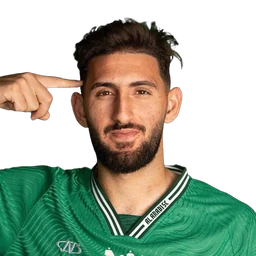
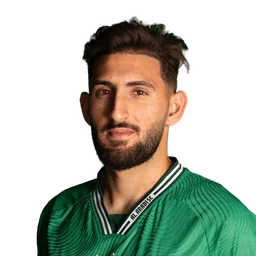
العربي: صور 13 لاعباً من جلسة التصوير الرسمية (Drive) — الموقع والفانتسي، مطابقة بالرقم مع الكشف؛ صور ?v=9، sw -77، fantasy 204

diff --git a/fantasy/index.html b/fantasy/index.html
@@ -12,7 +12,7 @@
 <link rel="preconnect" href="https://fonts.googleapis.com">
 <link rel="preconnect" href="https://fonts.gstatic.com" crossorigin>
 <link href="https://fonts.googleapis.com/css2?family=Vazirmatn:wght@300;400;500;600;700;800&display=swap" rel="stylesheet">
-<link rel="stylesheet" href="css/style.css?v=203">
+<link rel="stylesheet" href="css/style.css?v=204">
 <script src="https://cdnjs.cloudflare.com/ajax/libs/firebase/10.12.2/firebase-app-compat.min.js"></script>
 <script src="https://cdnjs.cloudflare.com/ajax/libs/firebase/10.12.2/firebase-auth-compat.min.js"></script>
 <script src="https://cdnjs.cloudflare.com/ajax/libs/firebase/10.12.2/firebase-firestore-compat.min.js"></script>
@@ -20,13 +20,13 @@
 </head>
 <body>
   <div id="splash">
-    <div class="splash-card"><img class="splash-logo" src="assets/logo-light.png?v=203" alt="Kuwait Fantasy League"></div>
+    <div class="splash-card"><img class="splash-logo" src="assets/logo-light.png?v=204" alt="Kuwait Fantasy League"></div>
   </div>
 
   <header id="topbar" style="display:none">
     <div id="brand" onclick="APP.go('dashboard')">
-      <img class="brand-lockup lk-dark" src="assets/logo-dark.png?v=203" alt="Kuwait Fantasy League">
-      <img class="brand-lockup lk-light" src="assets/logo-light.png?v=203" alt="Kuwait Fantasy League">
+      <img class="brand-lockup lk-dark" src="assets/logo-dark.png?v=204" alt="Kuwait Fantasy League">
+      <img class="brand-lockup lk-light" src="assets/logo-light.png?v=204" alt="Kuwait Fantasy League">
     </div>
     <a id="toSite" href="/" title="العودة للموقع">
       <svg viewBox="0 0 24 24" width="16" height="16" fill="none" stroke="currentColor" stroke-width="2.2" stroke-linecap="round" stroke-linejoin="round" aria-hidden="true"><path d="M9 6l6 6-6 6"/></svg>
@@ -41,28 +41,28 @@
   <nav id="bottomnav"></nav>
   <div id="toasts"></div>
 
-  <script src="js/cloud.js?v=203"></script>
-  <script src="js/data.js?v=203"></script>
-  <script src="js/engine.js?v=203"></script>
-  <script src="js/ui.js?v=203"></script>
-  <script src="js/photos.js?v=203"></script>
-  <script src="js/kits.js?v=203"></script>
-  <script src="js/kits-number.js?v=203"></script>
-  <script src="js/moderation.js?v=203"></script>
-  <script src="js/views.js?v=203"></script>
-  <script src="js/picker.js?v=203"></script>
-  <script src="js/extras.js?v=203"></script>
-  <script src="js/push.js?v=203"></script>
-  <script src="js/adminauth.js?v=203"></script>
-  <script src="js/admin.js?v=203"></script>
-  <script src="js/guide.js?v=203"></script>
-  <script src="js/live-gw.js?v=203"></script>
-  <script src="js/points.js?v=203"></script>
-  <script src="js/mfsync.js?v=203"></script>
-  <script src="js/roster-sync.js?v=203"></script>
-  <script src="js/app.js?v=203"></script>
-  <script src="js/i18n.js?v=203"></script>
-  <script src="js/i18n-more.js?v=203"></script>
-  <script src="js/gate.js?v=203"></script>
+  <script src="js/cloud.js?v=204"></script>
+  <script src="js/data.js?v=204"></script>
+  <script src="js/engine.js?v=204"></script>
+  <script src="js/ui.js?v=204"></script>
+  <script src="js/photos.js?v=204"></script>
+  <script src="js/kits.js?v=204"></script>
+  <script src="js/kits-number.js?v=204"></script>
+  <script src="js/moderation.js?v=204"></script>
+  <script src="js/views.js?v=204"></script>
+  <script src="js/picker.js?v=204"></script>
+  <script src="js/extras.js?v=204"></script>
+  <script src="js/push.js?v=204"></script>
+  <script src="js/adminauth.js?v=204"></script>
+  <script src="js/admin.js?v=204"></script>
+  <script src="js/guide.js?v=204"></script>
+  <script src="js/live-gw.js?v=204"></script>
+  <script src="js/points.js?v=204"></script>
+  <script src="js/mfsync.js?v=204"></script>
+  <script src="js/roster-sync.js?v=204"></script>
+  <script src="js/app.js?v=204"></script>
+  <script src="js/i18n.js?v=204"></script>
+  <script src="js/i18n-more.js?v=204"></script>
+  <script src="js/gate.js?v=204"></script>
 </body>
 </html>

diff --git a/fantasy/js/photos.js b/fantasy/js/photos.js
@@ -4,7 +4,7 @@
 'use strict';
 
 /* رقم نسخة الصور: ارفعه عند إعادة توليد أي قصّة حتى لا يبقى المتصفح على النسخة القديمة */
-const PLAYER_PHOTOS_VER = '8';
+const PLAYER_PHOTOS_VER = '9';
 
 const PLAYER_PHOTOS = {
   // الصليبخات (17)
@@ -247,6 +247,18 @@ const PLAYER_PHOTOS = {
   'JAH|أحمد الشمري': '/assets/players/jah/77',
   'JAH|عبدالرحمن الظفيري': '/assets/players/jah/88',
   // العربي (1)
+  'ARB|سليمان عبدالغفور': '/assets/players/arb/22',
+  'ARB|احمد عادي': '/assets/players/arb/1',
+  'ARB|عبدالرحمن عجاج': '/assets/players/arb/35',
+  'ARB|عبدالوهاب العوضي': '/assets/players/arb/2',
+  'ARB|محمد خالد': '/assets/players/arb/4',
+  'ARB|جمعة عبود': '/assets/players/arb/5',
+  'ARB|عبدالله عمار': '/assets/players/arb/3',
+  'ARB|عزيز نصاري': '/assets/players/arb/21',
+  'ARB|علي عزيز': '/assets/players/arb/6',
+  'ARB|خالد المرشد': '/assets/players/arb/14',
+  'ARB|بندر السلامة': '/assets/players/arb/10',
+  'ARB|ايوالا': '/assets/players/arb/77',
   'ARB|زيد قنبر': '/assets/players/arb/98',
   'ARB|وليد ولد الشيخ': '/assets/players/arb/walid',
   'NSR|مسفر العدواني': '/assets/players/nsr/mesfer',   // بطاقة ترحيب النادي، مهاجم بلا رقم بعد   // بطاقة المركز الإعلامي للنادي، بلا رقم بعد

diff --git a/sw.js b/sw.js
@@ -9,7 +9,7 @@
 
    عند كل نشر: ارفع رقم VER فتُبنى ذاكرة جديدة وتُحذف القديمة.
    ========================================================= */
-const VER   = 'mf-2026-09-15-76';
+const VER   = 'mf-2026-09-15-77';
 const SHELL = 'shell-' + VER;
 const RUN   = 'run-'   + VER;
 
